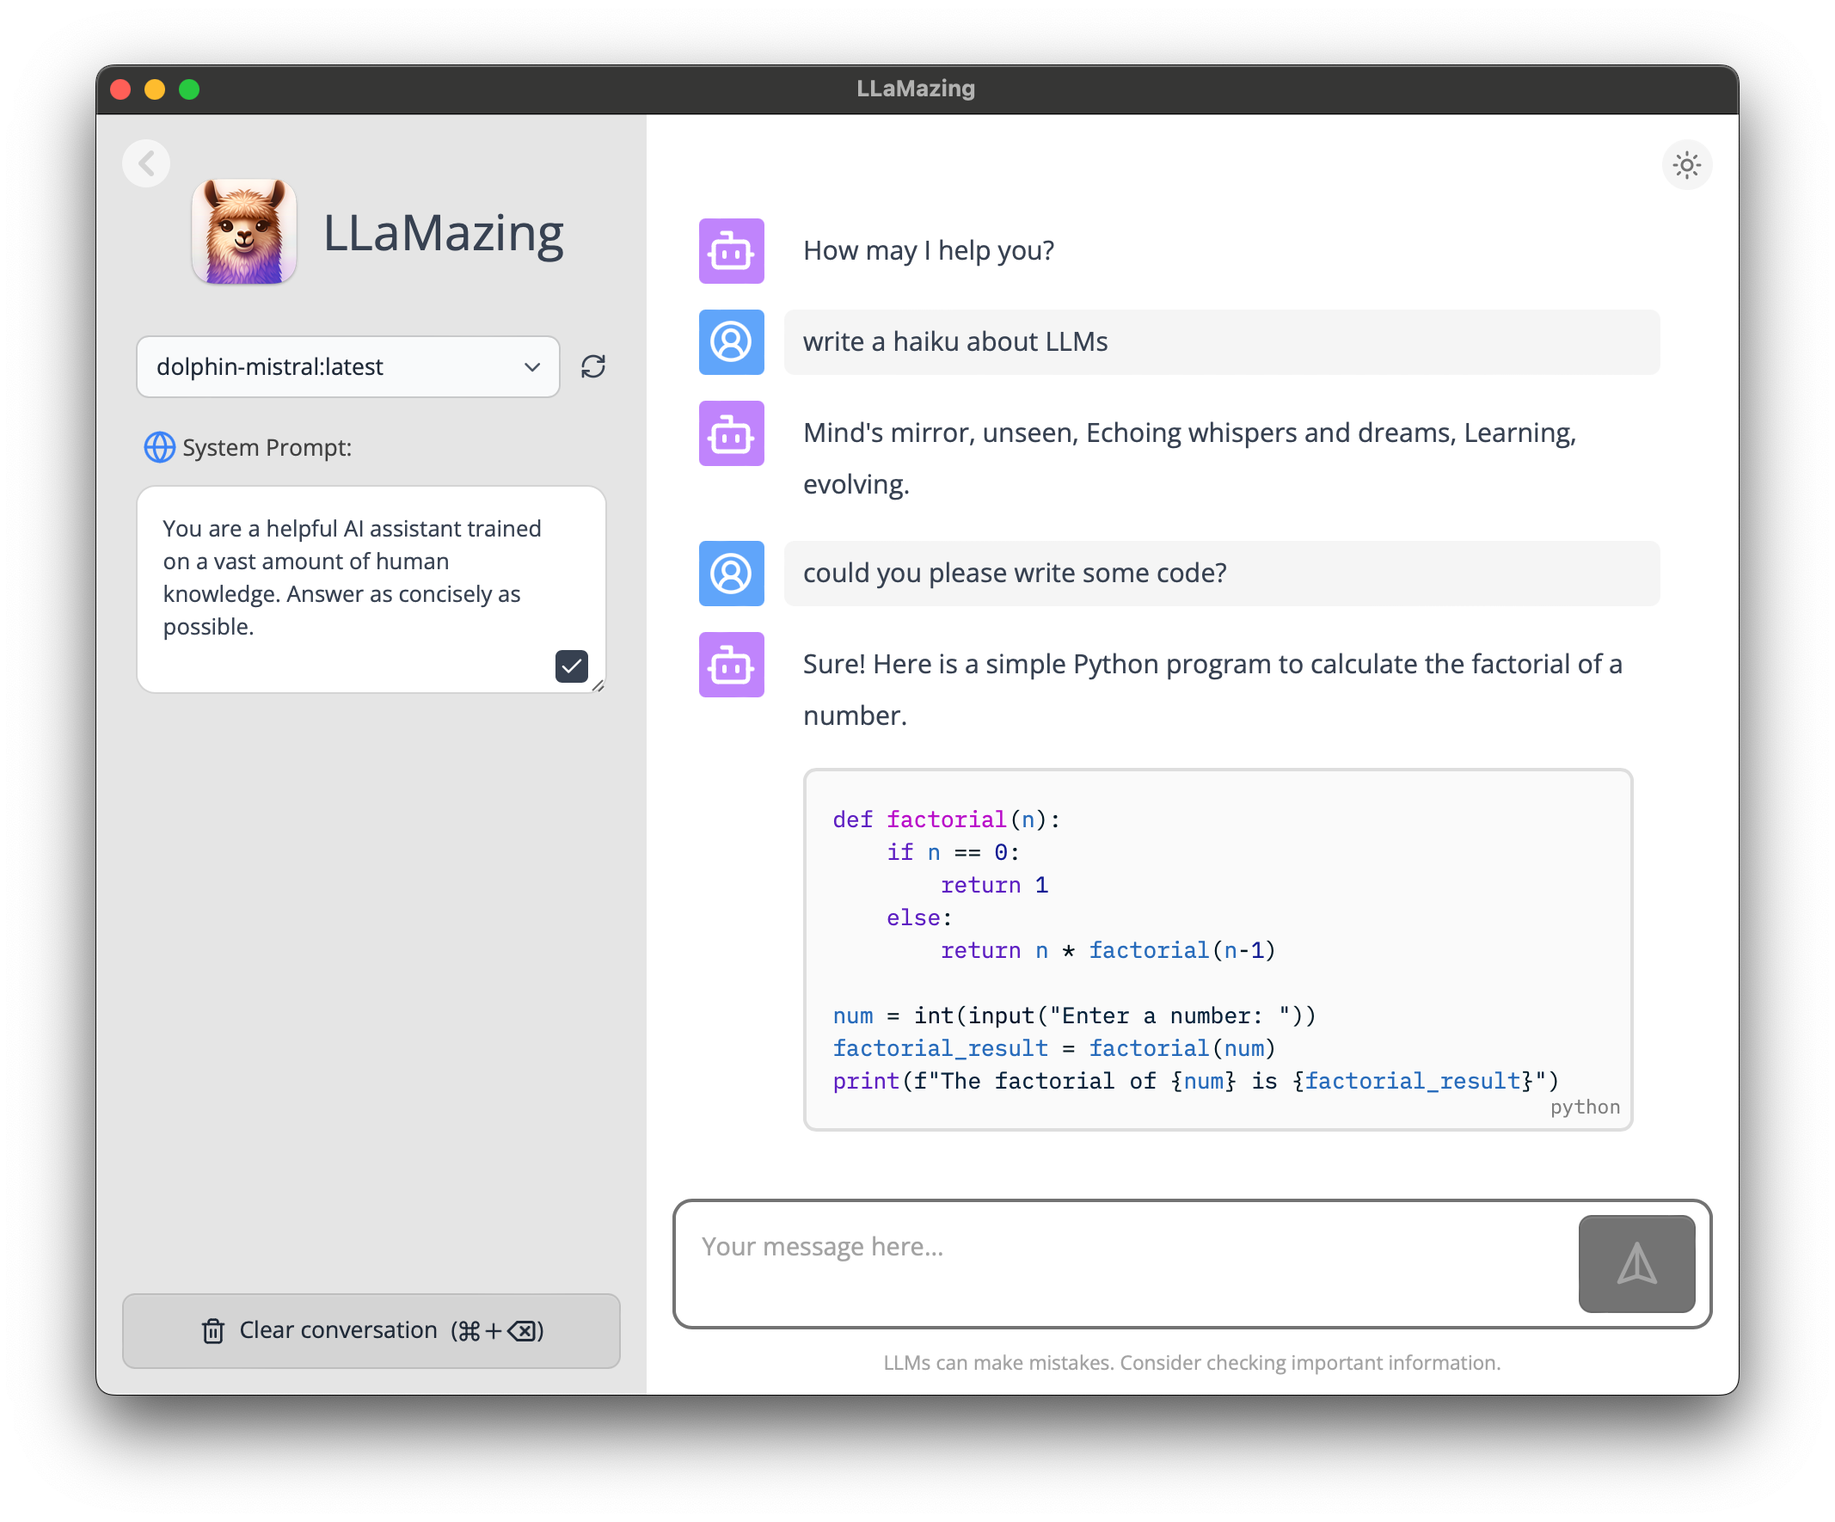
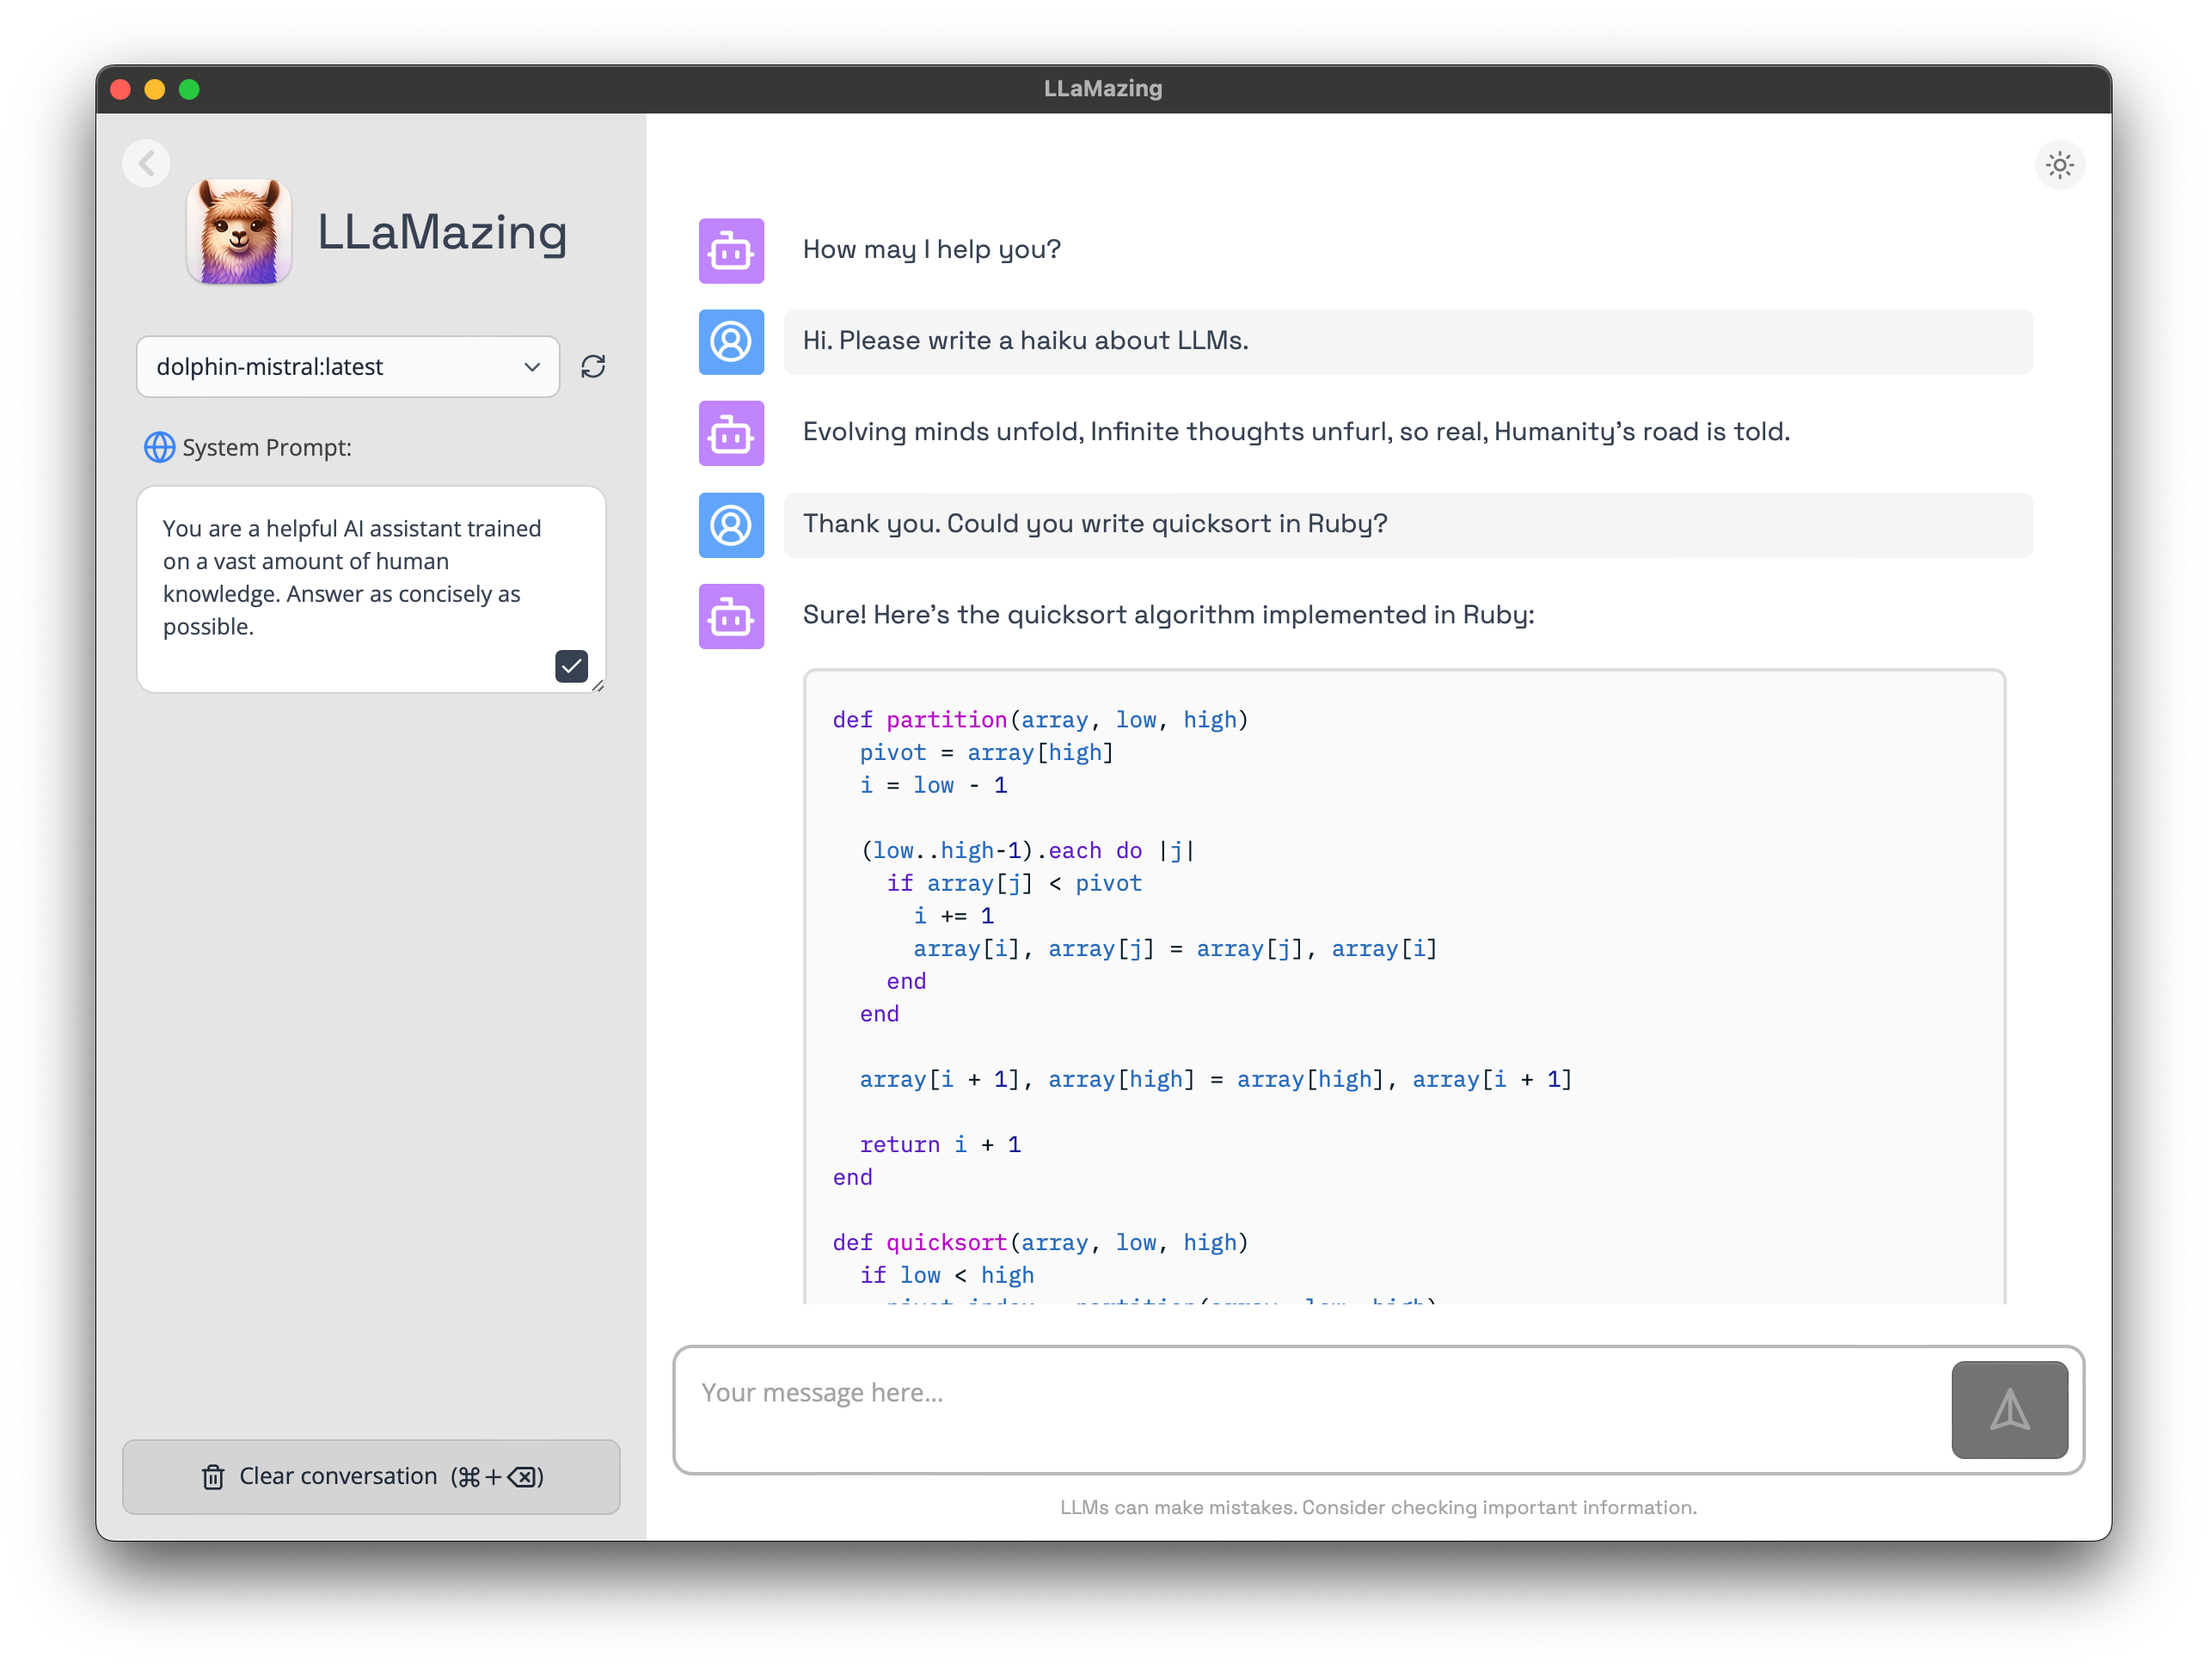
feat: copy individual or complete history (click on first message) to clipboard. tweaks

diff --git a/src/App.tsx b/src/App.tsx
@@ -13,6 +13,7 @@ import {
   ChevronLeftIcon,
   ChevronRightIcon,
   CircleUserRound,
+  Clipboard,
   CommandIcon,
   DeleteIcon,
   Globe,
@@ -34,6 +35,7 @@ import { ListBoxItem } from "./rac/ListBox.tsx";
 import { ToggleButton } from "./rac/ToggleButton.tsx";
 import useLocalStorageState from "./hooks.ts";
 import { Checkbox } from "./rac/Checkbox.tsx";
+import copy from "clipboard-copy";
 
 const DEFAULT_PROMPT = `You are a helpful AI assistant trained on a vast amount of human knowledge. Answer as concisely as possible.`;
 
@@ -305,6 +307,23 @@ function App() {
     stopGeneratingRef.current = true;
   }
 
+  async function copyMessageToClipboard(
+    m: Message & { context?: Partial<ChatResponse> },
+  ) {
+    await copy(m.content);
+  }
+
+  async function copyAllMessagesToClipboard() {
+    await copy(
+      messages
+        .map(
+          (m) =>
+            "##### " + m.role.toUpperCase() + ":\n\n" + m.content + "\n\n---",
+        )
+        .join("\n\n"),
+    );
+  }
+
   return (
     <div className={currentTheme}>
       <div className="relative flex h-screen cursor-default bg-white font-sans text-gray-700 dark:bg-neutral-700 dark:text-white">
@@ -355,11 +374,11 @@ function App() {
               <span className="shrink-0 overflow-hidden">
                 <img
                   className="object-fil h-20 w-20"
-                  alt="@llamazing"
+                  alt="logo"
                   src="/app-icon.png"
                 />
               </span>
-              LLaMazing
+              <span className="font-prose">LLaMazing</span>
             </h1>
 
             <div className="flex items-center gap-3">
@@ -442,7 +461,7 @@ function App() {
         </div>
 
         <main
-          className={`min-h-[100vh] transform pt-16 transition-transform duration-0 sm:duration-300
+          className={`min-h-[100vh] transform pt-16 font-prose transition-transform duration-0 sm:duration-300
                       ${
                         showSidePanel
                           ? "w-full translate-x-0"
@@ -452,15 +471,22 @@ function App() {
         >
           <div className="relative m-auto flex h-full flex-col pb-36">
             <div
-              className="grid grid-cols-[auto_minmax(0,_1fr)] gap-x-6 gap-y-4 overflow-y-auto px-8"
+              className="grid select-none grid-cols-[auto_minmax(0,_1fr)] gap-x-6 gap-y-4 overflow-y-auto px-8"
               ref={chatAreaRef}
               onWheel={onWheel}
             >
-              <Bot
-                className="rounded bg-purple-400 p-[4px] text-white dark:bg-yellow-400 dark:text-yellow-900"
-                size="38"
-              />
-              <div className="mt-[7px] flex select-none flex-col gap-2 pr-8">
+              <div className="group relative h-10 w-10 select-none">
+                <Clipboard
+                  className="absolute rounded bg-purple-400 p-[4px] text-white active:text-purple-700 dark:bg-yellow-400 dark:text-yellow-900 active:dark:text-yellow-100"
+                  size="38"
+                  onClick={() => copyAllMessagesToClipboard()}
+                />
+                <Bot
+                  className="absolute rounded bg-purple-400 p-[4px] text-white group-hover:hidden dark:bg-yellow-400 dark:text-yellow-900"
+                  size="38"
+                />
+              </div>
+              <div className="mt-[7px] flex select-none flex-col gap-2 pr-8 font-prose">
                 How may I help you?
               </div>
               {messages.map((m, i) => (
@@ -468,23 +494,39 @@ function App() {
                   {
                     {
                       user: (
-                        <CircleUserRound
-                          className="rounded bg-blue-400 p-[6px] text-white dark:bg-orange-400 dark:text-orange-900"
-                          size="38"
-                          key={"icn" + i}
-                        />
+                        <div className="group relative h-10 w-10 select-none">
+                          <Clipboard
+                            className="absolute rounded bg-blue-400 p-[6px] text-white active:text-blue-700 dark:bg-orange-400 dark:text-orange-900 active:dark:text-orange-100"
+                            size="38"
+                            key={"icn_clip" + i}
+                            onClick={() => copyMessageToClipboard(m)}
+                          />
+                          <CircleUserRound
+                            className="absolute rounded bg-blue-400 p-[6px] text-white group-hover:hidden dark:bg-orange-400 dark:text-orange-900"
+                            size="38"
+                            key={"icn" + i}
+                          />
+                        </div>
                       ),
                       assistant: (
-                        <Bot
-                          className="rounded bg-purple-400 p-[4px] text-white dark:bg-yellow-400 dark:text-yellow-900"
-                          size="38"
-                          key={"icn" + i}
-                        />
+                        <div className="group relative h-10 w-10 select-none">
+                          <Clipboard
+                            className="absolute rounded bg-purple-400 p-[4px] text-white active:text-purple-700 dark:bg-yellow-400 dark:text-yellow-900 active:dark:text-yellow-100"
+                            size="38"
+                            key={"icn_clip" + i}
+                            onClick={() => copyMessageToClipboard(m)}
+                          />
+                          <Bot
+                            className="absolute rounded bg-purple-400 p-[4px] text-white group-hover:hidden dark:bg-yellow-400 dark:text-yellow-900"
+                            size="38"
+                            key={"icn" + i}
+                          />
+                        </div>
                       ),
                     }[m.role]
                   }
                   <div
-                    className={`prose flex flex-col gap-2 pr-8
+                    className={`prose flex select-text flex-col gap-2 pr-8
                                ${m.role === "user" ? "-ml-3 mr-4 rounded-[0.4rem] bg-neutral-100 pl-3 dark:bg-neutral-600" : ""}`}
                   >
                     <MarkdownRenderer
@@ -522,7 +564,7 @@ function App() {
                 <TextArea
                   id="prompt"
                   aria-label="prompt"
-                  className="w-full select-none resize-none bg-transparent p-2 text-[0.95rem]
+                  className="w-full select-none resize-none bg-transparent p-2 font-sans text-[0.95rem]
                             text-neutral-600 outline-none placeholder:text-neutral-400 dark:text-white"
                   value={prompt}
                   onChange={(e) => setPrompt(e.target.value)}

diff --git a/index.html b/index.html
@@ -13,7 +13,11 @@
     />
     <link
       rel="stylesheet"
-      href="https://fonts.googleapis.com/css2?family=Open+Sans:wght@400;600;700&display=swap"
+      href="https://fonts.googleapis.com/css2?family=Open+Sans&display=swap"
+    />
+    <link
+      rel="stylesheet"
+      href="https://fonts.googleapis.com/css2?family=Space+Grotesk&display=swap"
     />
     <link
       rel="stylesheet"

diff --git a/tailwind.config.js b/tailwind.config.js
@@ -7,6 +7,7 @@ export default {
       fontFamily: {
         sans: ["Open Sans", "sans-serif"],
         mono: ["IBM Plex Mono", "monospace"],
+        prose: ["Space Grotesk", "sans-serif"],
       },
     },
   },
